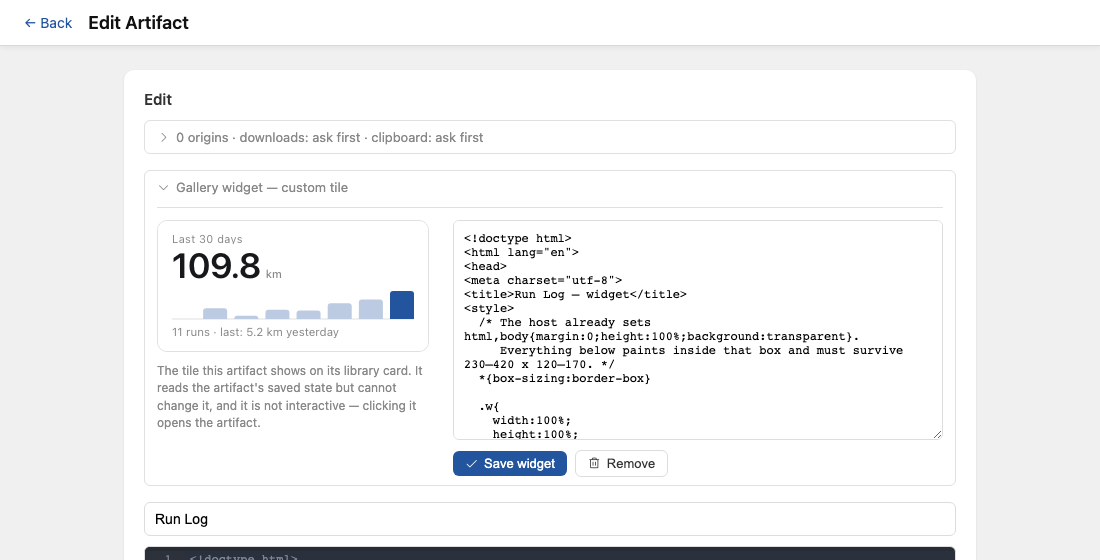
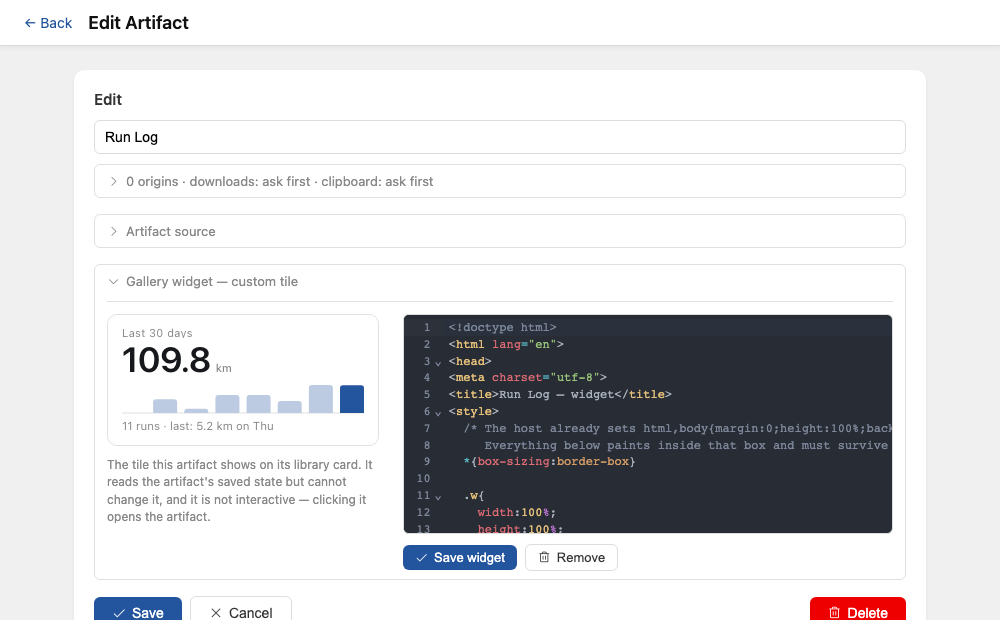
av-fafu: CodeMirror on the widget source; edit page as three peer panels
The widget source was a bare textarea while the artifact source got a full
editor — an inconsistency that was an oversight, not a decision. Both are
single-file HTML documents, so both now get the same CodeMirror island.

The edit page becomes three peer .details-panel sections — security, artifact
source, gallery widget — sharing one panelCaret partial, with only the
artifact source open (that being what "Edit" means). The panel/summary/caret
rules move from #security-panel ids into the .details-panel component, since
there are now three of them; the title stays above the sections as the one
field belonging to none of them.

Editors mount when their panel first OPENS, not at page load: CodeMirror
measures the DOM when constructed and a closed <details> is display:none, so
mounting into one yields zero-width gutters and a misplaced cursor. Verified —
the widget editor lands at its full 220px with a 39px gutter on first open.
Clearing the widget now goes through setSource() so the mounted document is
replaced too; the old textarea.value assignment would have left the visible
document stale, since the sync only runs editor -> textarea.

Two fixes found while verifying:

- The health watcher's deadline started at page load, so a frame that had not
  been ALLOWED to load — inside a closed panel, or below the fold under
  loading="lazy" — timed out for never answering a question it was never
  asked. On a long gallery every card below the fold would have shown a
[…]

diff --git a/web/gallery/edit.css b/web/gallery/edit.css
@@ -22,23 +22,12 @@ main{padding:24px;max-width:900px;margin:0 auto}
 #scan-result{margin-top:12px;background:#f8f8f8;border:1px solid #e0e0e0;border-radius:6px;padding:12px;font-size:13px;display:none}
 #scan-result code{background:#eee;padding:1px 5px;border-radius:3px}
 
-/* --- collapsible panels: security (allowlist + capabilities) and state -- */
-.details-panel{margin-bottom:16px}
-.details-panel>summary{list-style:none;display:flex;align-items:center;gap:var(--space-2)}
-.details-panel>summary::-webkit-details-marker{display:none}
-/* Caret is a real icon (not a UTF-8 triangle) so it stays legible at any
- * size/zoom, and lives outside the summary's text span so a JS-driven
- * summary refresh (edit.js renderSecurityPanel, state.js updateSummary)
- * never wipes it out. Two glyphs (caret-right / caret-down) are swapped by
- * [open] rather than rotating one in place: Phosphor's caret-right glyph
- * isn't centered in its em-box, so a CSS transform:rotate(90deg) pivots it
- * around the box's geometric center instead of the visible mark's center,
- * swinging it off to a corner at an angle instead of cleanly pointing down. */
-.panel-caret{flex-shrink:0}
-.panel-caret-open{display:none}
-.details-panel[open]>summary .panel-caret-closed{display:none}
-.details-panel[open]>summary .panel-caret-open{display:inline}
-.security-body{display:flex;gap:24px;margin-top:12px;padding-top:12px;border-top:1px solid var(--color-hairline)}
+/* --- the panels: security, state, artifact source, gallery widget --------
+ * The panel/summary/caret rules are the .details-panel component
+ * (components.css) — only the edit page's own spacing and each panel's body
+ * layout live here. */
+.edit-card .details-panel{margin-bottom:16px}
+.security-body{display:flex;gap:24px}
 .security-col{flex:1;min-width:0}
 .security-col+.security-col{border-left:1px solid var(--color-hairline);padding-left:24px}
 .security-col h3{margin:10px 0 6px}
@@ -55,8 +44,8 @@ main{padding:24px;max-width:900px;margin:0 auto}
 /* Every value is edited through the control its inferred type implies, so the
  * nesting here is the value's own shape: rows hold controls, container
  * controls hold rows. Indentation (a left rule per nesting level) is what
- * keeps that legible without a table. */
-.state-body{margin-top:12px;padding-top:12px;border-top:1px solid var(--color-hairline)}
+ * keeps that legible without a table. Spacing above the body comes from the
+ * shared .panel-body rule (components.css). */
 .state-body>p{margin-bottom:12px}
 .state-body code{background:var(--color-ground);padding:1px var(--space-2);border-radius:var(--radius-sm)}
 .state-row{padding:10px 0;border-top:1px solid var(--color-hairline)}
@@ -96,16 +85,8 @@ input.state-input{max-width:340px}
 .state-add{display:flex;align-items:center;gap:var(--space-2);margin-top:12px;padding-top:12px;border-top:1px solid var(--color-hairline);flex-wrap:wrap}
 .state-add .field{max-width:220px}
 
-/* --- gallery widget panel (av-fafu), collapsed by default ---------------- */
-/* Same collapsed-<details> shape as the security panel above, and it reuses
- * that panel's caret rules — hence the shared .security-caret class in the
- * markup rather than a second pair of icons needing the same [open] swap. */
-#widget-panel{margin-bottom:16px}
-#widget-panel>summary{list-style:none;display:flex;align-items:center;gap:var(--space-2)}
-#widget-panel>summary::-webkit-details-marker{display:none}
-#widget-panel[open]>summary .security-caret-closed{display:none}
-#widget-panel[open]>summary .security-caret-open{display:inline}
-.widget-body{display:flex;gap:24px;margin-top:12px;padding-top:12px;border-top:1px solid var(--color-hairline)}
+/* --- gallery widget panel (av-fafu) -------------------------------------- */
+.widget-body{display:flex;gap:24px}
 /* The preview column is pinned to the tile's real width, so what the author
  * sees is the box the library will draw rather than a stretched approximation.
  * The component's card-bleed margins are cancelled: there is no .card padding
@@ -114,9 +95,11 @@ input.state-input{max-width:340px}
 .widget-preview .card-widget{margin:0;border:1px solid var(--color-hairline);border-radius:var(--radius-lg)}
 .widget-preview p{margin-top:10px;line-height:1.45}
 .widget-source{flex:1;min-width:0;display:flex;flex-direction:column}
-/* Shorter than the artifact's own editor below: a widget is a small document,
- * and the artifact source stays the page's main event. */
-.widget-source textarea{height:220px}
+/* Shorter than the artifact's own editor: a widget is a small document, and
+ * the artifact source stays the page's main event. Both the textarea and the
+ * editor mounted over it take this height, so the panel doesn't jump when
+ * CodeMirror lands. */
+.widget-source textarea,.widget-source .cm-editor{height:220px}
 .widget-source .btn-row{margin-top:10px}
 
 /* --- responsive: single column, stacked security body, full-width actions */

diff --git a/web/gallery/edit.js b/web/gallery/edit.js
@@ -16,13 +16,59 @@
  *   clipboardApproved - persisted first-use clipboard approval (mutable)
  */
 
-// Mount the CodeMirror island over the body textarea. The editor keeps
-// textarea.value in sync, so save() below is oblivious to it — and if the
-// bundle failed to load, the plain textarea still works. Line wrapping stays
-// off so long/deeply-nested lines scroll horizontally instead of reflowing.
-if (window.ArtifactEditor) {
-  ArtifactEditor.mount(document.getElementById('body'));
+// --- CodeMirror islands ----------------------------------------------------
+// Both source fields get the same editor: the artifact's own body and its
+// gallery widget are both single-file HTML documents, and there is no reason
+// one of them should be a bare textarea. The editor keeps textarea.value in
+// sync, so the save paths below are oblivious to it — and if the bundle failed
+// to load, both plain textareas still work. Line wrapping stays off so
+// long/deeply-nested lines scroll horizontally instead of reflowing.
+//
+// Mounting is deferred until a panel is actually open. CodeMirror measures the
+// DOM when it is constructed, and a closed <details> is display:none, so
+// mounting into one yields an editor with zero-width gutters and a misplaced
+// cursor when it is later revealed. Waiting for the first open sidesteps the
+// whole problem — and a panel the user never opens costs nothing.
+const editors = {};
+
+function mountEditorWhenOpen(panelID, textareaID) {
+  const panel = document.getElementById(panelID);
+  const textarea = document.getElementById(textareaID);
+  if (!panel || !textarea || !window.ArtifactEditor) return;
+  function mount() {
+    if (editors[textareaID] || !panel.open) return;
+    editors[textareaID] = ArtifactEditor.mount(textarea);
+  }
+  panel.addEventListener('toggle', mount);
+  mount(); // a panel rendered open (artifact source) mounts right away
 }
+
+// Replaces a field's contents from code. The textarea alone is not enough once
+// an editor is mounted over it: the sync only runs editor -> textarea, so a
+// bare textarea.value assignment would leave the visible document stale.
+function setSource(textareaID, text) {
+  const textarea = document.getElementById(textareaID);
+  if (textarea) textarea.value = text;
+  const view = editors[textareaID];
+  if (view) {
+    view.dispatch({ changes: { from: 0, to: view.state.doc.length, insert: text } });
+  }
+}
+
+mountEditorWhenOpen('source-panel', 'body');
+mountEditorWhenOpen('widget-panel', 'widget-src');
+
+// The capability popover links here as /edit#security-panel, and a fragment
+// pointing AT a <details> does not open it — the visitor would land on a
+// collapsed panel having just clicked "Manage in allowlist settings". Open
+// whichever panel the hash names.
+(function() {
+  const target = location.hash ? document.querySelector(location.hash) : null;
+  if (target && target.tagName === 'DETAILS') {
+    target.open = true;
+    target.scrollIntoView({ block: 'nearest' });
+  }
+})();
 
 // --- security panel: allowlist + capabilities (working copy, applied on Save) ---
 // All edits here mutate the in-memory allowlist/unapproved/downloadsApproved/
@@ -297,7 +343,7 @@ async function deleteArtifact() {
         status.textContent = '✗ ' + ((await r.text().catch(() => '')).trim() || r.statusText);
         return;
       }
-      src.value = '';
+      setSource('widget-src', '');
       status.textContent = '✓ Removed';
       refreshPreview();
     } catch (e) {

diff --git a/web/gallery/components.css b/web/gallery/components.css
@@ -54,10 +54,29 @@
 .card-widget.has-frame.widget-failed .card-widget-frame{display:none}
 .card-widget-monogram{display:flex;align-items:center;justify-content:center;width:56px;height:56px;border-radius:16px;background:hsl(var(--tile-hue) 60% 100% / .72);box-shadow:0 1px 4px hsl(var(--tile-hue) 40% 30% / .16);color:hsl(var(--tile-hue) 42% 34%);font-size:22px;font-weight:600;letter-spacing:.5px}
 
-/* Collapsible section (<details>/<summary>) with a muted posture summary —
- * the edit page's security section (av-p0a1) is the first user. */
+/* Collapsible section (<details>/<summary>) with a muted summary line — the
+ * edit page's security section (av-p0a1) was the first user; the artifact
+ * source and gallery widget sections (av-fafu) are the rest, which is why the
+ * caret rules below live here keyed on the component rather than on one
+ * panel's id.
+ *
+ * The caret is a real icon (not a UTF-8 triangle) so it stays legible at any
+ * size/zoom, and it sits outside the summary's text span so JS that refreshes
+ * that text (edit.js renderSecurityPanel) never wipes it out. Two glyphs
+ * (caret-right / caret-down) are swapped by [open] rather than rotating one in
+ * place: Phosphor's caret-right glyph isn't centered in its em-box, so a
+ * transform:rotate(90deg) pivots around the box's geometric center instead of
+ * the visible mark's, swinging it off to a corner at an angle. */
 .details-panel{background:var(--color-panel);border:1px solid var(--color-hairline);border-radius:var(--radius-md);padding:var(--space-3) var(--space-5)}
-.details-panel>summary{cursor:pointer;font-size:13px;color:var(--color-muted)}
+.details-panel>summary{cursor:pointer;font-size:13px;color:var(--color-muted);list-style:none;display:flex;align-items:center;gap:var(--space-2)}
+.details-panel>summary::-webkit-details-marker{display:none}
+.details-caret{flex-shrink:0}
+.details-caret-open{display:none}
+.details-panel[open]>summary .details-caret-closed{display:none}
+.details-panel[open]>summary .details-caret-open{display:inline}
+/* The body of an open panel, separated from its summary by a hairline. Shared
+ * by all three panels so they open the same way. */
+.details-panel>.panel-body{margin-top:var(--space-5);padding-top:var(--space-5);border-top:1px solid var(--color-hairline)}
 
 /* --- controls --------------------------------------------------------- */
 .field{width:100%;padding:var(--space-3) var(--space-4);border:1px solid var(--color-border);border-radius:var(--radius-md);font-size:14px;outline:none;background:var(--color-panel);color:var(--color-ink)}

diff --git a/web/gallery/components.js b/web/gallery/components.js
@@ -100,16 +100,41 @@
   // widget that was about to work.
   var DEADLINE_MS = 6000;
 
-  function fail(frame) {
+  function setFailed(frame, failed) {
     var well = frame.closest('.card-widget');
-    if (well) well.classList.add('widget-failed');
+    if (well) well.classList.toggle('widget-failed', failed);
   }
 
   function watch(frame) {
     if (frame.dataset.widgetWatched) return;
     frame.dataset.widgetWatched = '1';
-    var timer = setTimeout(function() { fail(frame); }, DEADLINE_MS);
+
+    var timer = null;
+    function startDeadline() {
+      timer = setTimeout(function() { setFailed(frame, true); }, DEADLINE_MS);
+    }
     frame.addEventListener('__avresolved', function() { clearTimeout(timer); });
+
+    // The clock must not start until the frame is actually allowed to load.
+    // A tile inside a closed <details>, or below the fold under
+    // loading="lazy", has not been fetched at all — starting the deadline at
+    // page load would time it out for never answering a question it was never
+    // asked, and a long gallery would show monograms for everything below the
+    // fold. Intersection is the same condition loading="lazy" itself waits on,
+    // so the two stay in step.
+    if (typeof IntersectionObserver !== 'function') {
+      startDeadline();
+      return;
+    }
+    var io = new IntersectionObserver(function(entries) {
+      for (var i = 0; i < entries.length; i++) {
+        if (!entries[i].isIntersecting) continue;
+        io.disconnect();
+        startDeadline();
+        return;
+      }
+    });
+    io.observe(frame);
   }
 
   function watchAll(root) {
@@ -135,7 +160,11 @@
     for (var i = 0; i < frames.length; i++) {
       if (frames[i].contentWindow !== e.source) continue;
       frames[i].dispatchEvent(new CustomEvent('__avresolved'));
-      if (d.status !== 'ready') fail(frames[i]);
+      // A 'ready' also CLEARS the failed state, not just suppresses the
+      // deadline: a tile that was marked failed and then answers for itself
+      // (a reload, an htmx re-render into the same well) has earned its frame
+      // back.
+      setFailed(frames[i], d.status !== 'ready');
       return;
     }
   });

diff --git a/internal/api/widget_test.go b/internal/api/widget_test.go
@@ -228,3 +228,71 @@ func artifactField(t *testing.T, r *Router, id, field string) string {
 	require.NoError(t, json.Unmarshal(w.Body.Bytes(), &raw))
 	return string(raw[field])
 }
+
+// The edit page presents its three sections — security, artifact source,
+// gallery widget — as peer .details-panel sections sharing one caret partial,
+// with only the artifact source open (that being what "Edit" means).
+func TestEditPageSectionsAreSymmetricPanels(t *testing.T) {
+	r := newTestRouter(t)
+	id := createTestArtifact(t, r, "Run Log")
+	require.Equal(t, http.StatusOK, putWidgetReq(t, r, id, "<b>42 km</b>").Code)
+
+	req := httptest.NewRequest("GET", "/artifacts/"+id+"/edit", nil)
+	w := httptest.NewRecorder()
+	r.ServeHTTP(w, req)
+	require.Equal(t, http.StatusOK, w.Code)
+	page := w.Body.String()
+
+	for _, panel := range []string{
+		`<details class="details-panel" id="security-panel">`,
+		`<details class="details-panel" id="source-panel" open>`,
+		`<details class="details-panel" id="widget-panel">`,
+	} {
+		assert.Contains(t, page, panel)
+	}
+	// One caret definition, rendered by every summary (panelCaret partial).
+	assert.Equal(t, 3, strings.Count(page, `class="ph ph-caret-right details-caret details-caret-closed"`))
+	// Both source fields are real textareas the editor island mounts over, so
+	// the widget source is not a second-class field.
+	assert.Contains(t, page, `<textarea id="body">`)
+	assert.Contains(t, page, `<textarea id="widget-src"`)
+	assert.Contains(t, page, `<script src="/assets/editor.js"></script>`)
+}
+
+// Both source fields get CodeMirror, and it is mounted per panel rather than
+// eagerly: a closed <details> is display:none, and CodeMirror measures the DOM
+// when constructed, so mounting into a hidden panel yields a mis-sized editor.
+func TestEditScriptMountsBothEditorsLazily(t *testing.T) {
+	js, err := embeddedAssets.ReadFile("assets/gallery/edit.js")
+	require.NoError(t, err)
+	src := string(js)
+
+	assert.Contains(t, src, `mountEditorWhenOpen('source-panel', 'body')`)
+	assert.Contains(t, src, `mountEditorWhenOpen('widget-panel', 'widget-src')`)
+	// Mounting is gated on the panel being open, and re-checked on toggle.
+	assert.Contains(t, src, `if (editors[textareaID] || !panel.open) return;`)
+	assert.Contains(t, src, `panel.addEventListener('toggle', mount);`)
+	// Clearing the widget goes through setSource so the mounted editor's
+	// document is replaced too — a bare textarea.value assignment would leave
+	// the visible document stale (the sync only runs editor -> textarea).
+	assert.Contains(t, src, `setSource('widget-src', '')`)
+}
+
+// The widget-tile health watcher must not start its deadline until the frame
+// is actually allowed to load. A tile in a closed panel or below the fold
+// (loading="lazy") has not been fetched at all, and timing it out would show a
+// monogram for every healthy widget the visitor hasn't scrolled to yet.
+func TestWidgetHealthDeadlineWaitsForVisibility(t *testing.T) {
+	js, err := embeddedAssets.ReadFile("assets/gallery/components.js")
+	require.NoError(t, err)
+	src := string(js)
+
+	assert.Contains(t, src, "IntersectionObserver")
+	assert.Contains(t, src, "startDeadline()")
+	// The deadline is armed from the observer callback, never at watch() time.
+	i := strings.Index(src, "io.observe(frame)")
+	require.Greater(t, i, 0)
+	assert.Contains(t, src[:i], "if (!entries[i].isIntersecting) continue;")
+	// A later 'ready' clears a failed tile rather than only suppressing the timer.
+	assert.Contains(t, src, `setFailed(frames[i], d.status !== 'ready');`)
+}

diff --git a/docs/widgets.md b/docs/widgets.md
@@ -53,9 +53,18 @@ still wants a face. There is no separate mechanism for it.
 | Agent chat | `set_widget` / `get_widget` tools; the preview pane shows the tile. |
 | `GET/PUT/DELETE /api/artifacts/:id/widget` | The single write path, like every other mutation. |
 
-The edit panel previews the tile at its real size beside its source, and swaps
-the `/partials/card-widget` fragment after a save rather than reloading the page
-out from under the artifact's editor:
+The edit page is three peer `.details-panel` sections — security, artifact
+source, gallery widget — sharing one caret partial, with only the artifact
+source open (that being what "Edit" means). **Both** source fields get the same
+CodeMirror island: an artifact and its widget are both single-file HTML
+documents, and there is no reason one should be a bare textarea. Each editor
+mounts when its panel first opens rather than at page load, because CodeMirror
+measures the DOM when constructed and a closed `<details>` is `display:none` —
+mounting into one yields zero-width gutters and a misplaced cursor.
+
+The panel previews the tile at its real size beside its source, and swaps the
+`/partials/card-widget` fragment after a save rather than reloading the page
+out from under either editor:
 
 ![The edit page's widget panel](screenshots/av-fafu/02-edit-widget-panel.png)
 
@@ -111,6 +120,12 @@ Falling back costs nothing because the default tile is always in the markup
 under the frame; failing is one class. It is diagnosis, not enforcement — a
 widget that suppresses its report just gets the monogram, the same outcome as
 failing, and nothing in the channel can grant it anything.
+
+The deadline starts when the frame **becomes visible**, not at page load. A
+tile in a closed panel, or below the fold under `loading="lazy"`, has not been
+fetched at all; timing it out would mark every healthy widget the visitor
+hasn't scrolled to as failed. Intersection is the same condition
+`loading="lazy"` itself waits on, so the two stay in step.
 
 ## Writing a widget
 
